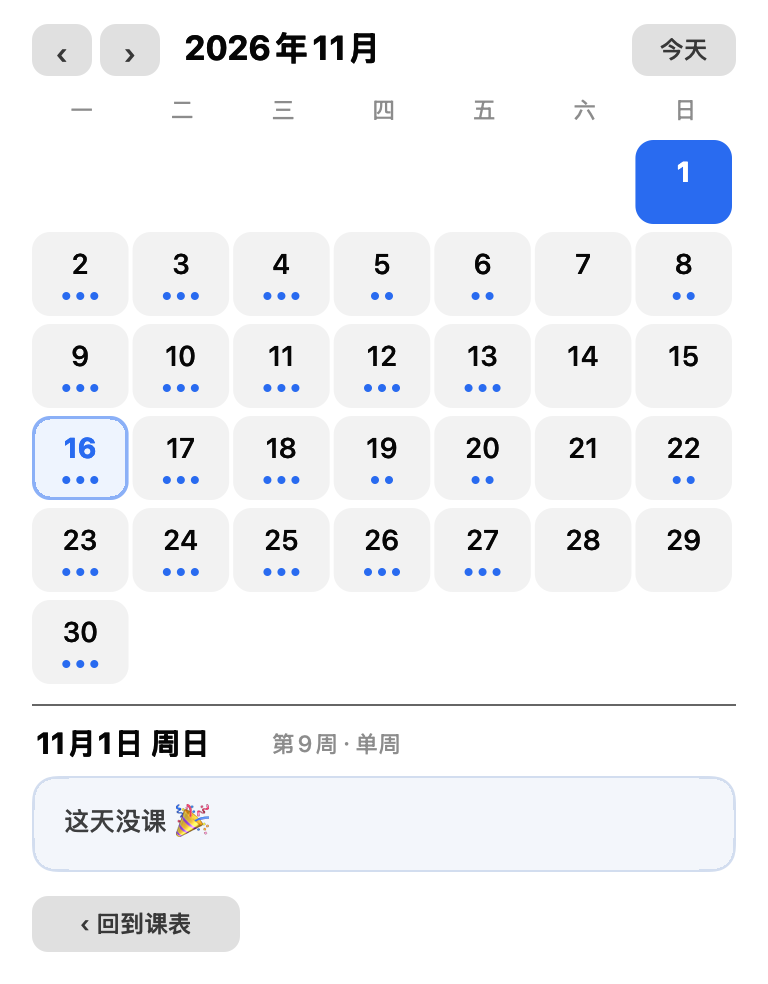
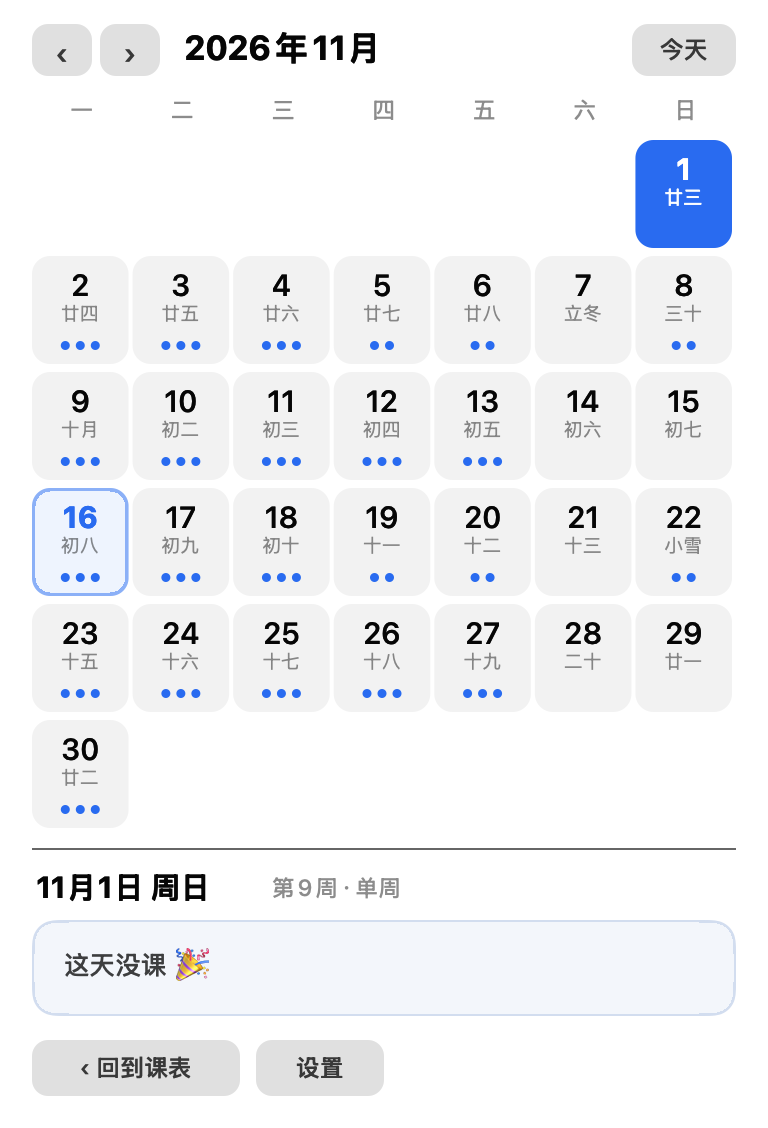
v1.8.0：日历加农历与节气，变成万年历样式

diff --git a/Sources/main.swift b/Sources/main.swift
@@ -120,6 +120,71 @@ enum Palette {
                                  NSColor(srgbRed: 0.30, green: 0.34, blue: 0.42, alpha: 0.9))
 }
 
+
+// MARK: - 农历 / 节气（万年历用）
+
+enum Lunar {
+    static let cal = Calendar(identifier: .chinese)
+    static let monthNames = ["正", "二", "三", "四", "五", "六", "七", "八", "九", "十", "冬", "腊"]
+    static let digits = ["", "一", "二", "三", "四", "五", "六", "七", "八", "九", "十"]
+
+    /// 农历日：初一…三十
+    static func dayName(_ d: Int) -> String {
+        switch d {
+        case 1...10: return "初" + digits[d]
+        case 11...19: return "十" + digits[d - 10]
+        case 20: return "二十"
+        case 21...29: return "廿" + digits[d - 20]
+        case 30: return "三十"
+        default: return ""
+        }
+    }
+
+    /// 格子里的第二行：节气 > 月初（月份）> 农历日
+    static func cellText(_ date: Date) -> String {
+        if let term = SolarTerm.name(on: date) { return term }
+        let c = cal.dateComponents([.month, .day], from: date)
+        guard let m = c.month, let d = c.day, (1...12).contains(m) else { return "" }
+        if d == 1 { return monthNames[m - 1] + "月" }
+        return dayName(d)
+    }
+}
+
+enum SolarTerm {
+    // 小寒、大寒、立春、雨水、惊蛰、春分、清明、谷雨、立夏、小满、芒种、夏至、
+    // 小暑、大暑、立秋、处暑、白露、秋分、寒露、霜降、立冬、小雪、大雪、冬至
+    static let names = ["小寒", "大寒", "立春", "雨水", "惊蛰", "春分", "清明", "谷雨",
+                        "立夏", "小满", "芒种", "夏至", "小暑", "大暑", "立秋", "处暑",
+                        "白露", "秋分", "寒露", "霜降", "立冬", "小雪", "大雪", "冬至"]
+    static let info: [Int] = [0, 21208, 42467, 63836, 85337, 107014, 128867, 150921,
+                              173149, 195551, 218072, 240693, 263343, 285989, 308563,
+                              331033, 353350, 375494, 397447, 419210, 440795, 462224,
+                              483532, 504758]
+
+    /// 某个节气在当年的日期（经典 1900 基准算法，1900–2100 可用）
+    static func date(year: Int, index: Int) -> Date? {
+        let base = DateComponents(calendar: Calendar(identifier: .gregorian),
+                                  year: 1900, month: 1, day: 6, hour: 2, minute: 5).date!
+        let ms = 31556925974.7 * Double(year - 1900) + Double(info[index]) * 60000
+        return base.addingTimeInterval(ms / 1000)
+    }
+
+    /// 这一天是不是节气（覆盖前一年到后一年，避免时区/边界问题）
+    static func name(on day: Date) -> String? {
+        let cal = Calendar(identifier: .gregorian)
+        let y = cal.component(.year, from: day)
+        let md = (cal.component(.month, from: day), cal.component(.day, from: day))
+        for yy in [y] {
+            for (i, _) in names.enumerated() {
+                guard let d = date(year: yy, index: i) else { continue }
+                let m2 = (cal.component(.month, from: d), cal.component(.day, from: d))
+                if m2 == md { return names[i] }
+            }
+        }
+        return nil
+    }
+}
+
 // MARK: - 课表视图
 
 class FlippedView: NSView {
@@ -550,7 +615,7 @@ final class ScheduleView: FlippedView {
         let firstOfMonth = cal.date(from: cal.dateComponents([.year, .month], from: owner.calMonth))!
         let daysInMonth = cal.range(of: .day, in: .month, for: firstOfMonth)!.count
         let lead = weekdayNumber(firstOfMonth) - 1
-        let cellH: CGFloat = 46
+        let cellH: CGFloat = 58
         let today = cal.startOfDay(for: now)
         let sel = cal.startOfDay(for: owner.calSelected)
         let gridTop = y
@@ -582,17 +647,27 @@ final class ScheduleView: FlippedView {
             }
             let numColor: NSColor = isSel ? .white
                 : (inTerm ? (isToday ? Palette.accent : .labelColor) : NSColor.tertiaryLabelColor)
-            label(cell, "\(dayNum)", .systemFont(ofSize: 14, weight: isSel || isToday ? .bold : .medium),
-                  numColor, NSRect(x: 0, y: 7, width: frame.width, height: 18), align: .center)
+            label(cell, "\(dayNum)", .systemFont(ofSize: 15, weight: isSel || isToday ? .bold : .medium),
+                  numColor, NSRect(x: 0, y: 5, width: frame.width, height: 18), align: .center)
 
+            // 第二行：节气 / 农历
+            let sub = Lunar.cellText(day)
+            if !sub.isEmpty {
+                let subColor: NSColor = isSel ? NSColor.white.withAlphaComponent(0.85)
+                    : (inTerm ? .tertiaryLabelColor : NSColor.tertiaryLabelColor.withAlphaComponent(0.6))
+                label(cell, sub, .systemFont(ofSize: 9.5, weight: .regular),
+                      subColor, NSRect(x: 0, y: 23, width: frame.width, height: 13), align: .center)
+            }
+
+            // 有课：底部小圆点（一节一个，最多 3 个）
             if inTerm && !items.isEmpty {
-                let dotColor: NSColor = isSel ? NSColor.white.withAlphaComponent(0.9) : Palette.accent
+                let dotColor: NSColor = isSel ? NSColor.white.withAlphaComponent(0.92) : Palette.accent
                 let n = min(items.count, 3)
-                let dotW: CGFloat = 4, gap: CGFloat = 3
+                let dotW: CGFloat = 4.5, gap: CGFloat = 3
                 let totalW = CGFloat(n) * dotW + CGFloat(n - 1) * gap
                 for d in 0..<n {
                     let dot = NSView(frame: NSRect(x: (frame.width - totalW) / 2 + CGFloat(d) * (dotW + gap),
-                                                   y: 30, width: dotW, height: dotW))
+                                                   y: frame.height - dotW - 7, width: dotW, height: dotW))
                     dot.wantsLayer = true
                     dot.layer?.cornerRadius = dotW / 2
                     dot.layer?.backgroundColor = dotColor.cgColor

diff --git a/README.md b/README.md
@@ -3,7 +3,7 @@
 <h1 align="center">上课提醒 · ClassReminder</h1>
 
 <p align="center">
-  <a href="../../releases/latest"><img src="https://img.shields.io/badge/version-1.7.0-blue" alt="version"></a>
+  <a href="../../releases/latest"><img src="https://img.shields.io/badge/version-1.8.0-blue" alt="version"></a>
   <img src="https://img.shields.io/badge/macOS-13%2B-black" alt="platform">
   <img src="https://img.shields.io/badge/Swift-5-orange" alt="swift">
   <img src="https://img.shields.io/badge/dependencies-0-green" alt="deps">
@@ -40,7 +40,7 @@
 - ⏰ **提前提醒**：5 / 10 / 15 / 20 / 30 分钟，点一下即生效
 - 🔔 **两次提醒**：提前 N 分钟蓝色卡片 + 语音；到点换琥珀色卡片再响三声，不语音
 - 🔊 **叫得住人**：大卡片置顶 + 连响三次 + 中文女声播报两遍
-- 📅 **日历**：按月翻，点哪天看那天几节课；范围来自设置里的学期起止
+- 📅 **日历**：万年历样式，每格带农历 / 节气；点哪天看那天几节课，范围来自学期设置
 - ⚙ **学期设置**：学期开始日、周数、第 1 周是单周还是双周，面板里直接改，立刻生效
 - 🗓 **单双周**：按「第 1 周是哪天、那天算单周还是双周」自动推算，可手动切换
 - 🎨 **今天 / 明天分色**：蓝灰对琥珀，不会看混
@@ -49,7 +49,7 @@
 
 ## 📦 安装
 
-1. 到 Releases 下载 `ClassReminder-1.7.0.dmg`
+1. 到 Releases 下载 `ClassReminder-1.8.0.dmg`
 2. 双击挂载，把 `上课提醒.app` 拖进「应用程序」
 3. 第一次打开被拦，就在 App 上右键 →「打开」（没有开发者签名）
 
@@ -181,6 +181,7 @@ ClassReminder --shotbar o.png    # 渲染菜单栏示意
 
 完整记录见 [CHANGELOG.md](CHANGELOG.md)。
 
+- **v1.8.0**（2026-11-16）：日历加农历与节气（万年历）
 - **v1.7.0**（2026-11-16）：新增学期设置（开始日 / 周数 / 第 1 周单双），日历跟着走
 - **v1.6.0**（2026-11-16）：新增日历视图（按天看课，限定本学期 22 周）
 - **v1.5.1**（2026-11-05）：周次下拉去掉「单双周」

diff --git a/CHANGELOG.md b/CHANGELOG.md
@@ -1,5 +1,15 @@
 # 🗒 版本记录
 
+## v1.8.0 · 2026-11-16
+
+### 🗓 日历变万年历
+
+- 每格第二行显示 **农历**：初一…三十，农历月首显示「十月 / 冬月 / 腊月」
+- 节气自动标注：立冬、小雪、大雪……（24 节气，1900–2100 算法）
+- 有课的日期用底部小圆点表示（一点 = 一节，最多 3 个），和农历同格不打架
+- 学期外的日期仍灰显、点不动
+
+
 ## v1.7.0 · 2026-11-16
 
 ### ⚙ 新增「设置」页
